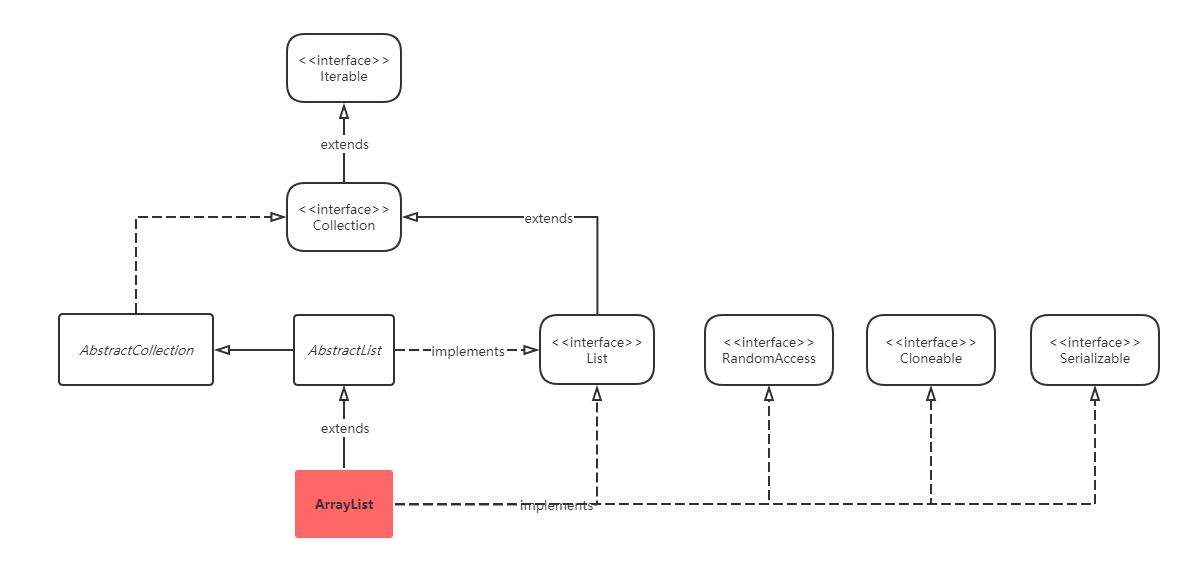
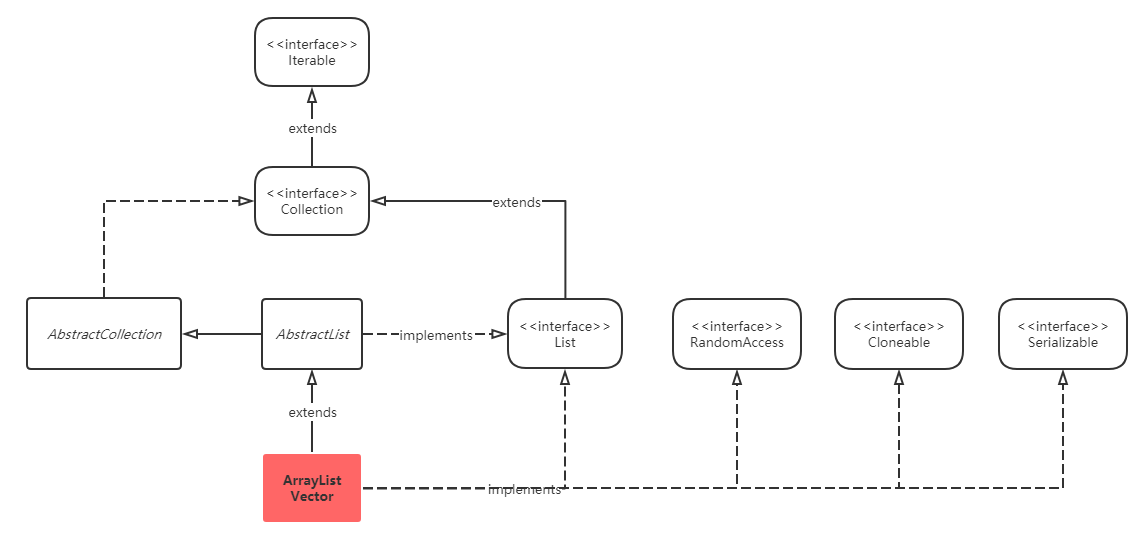
Vector 源码解析,更新element-ui版本

Changed region(s): [[0.0308, 0.0309, 0.9534, 0.9582], [0.5844, 0.5255, 1.0, 0.7418], [0.246, 0.7418, 0.3076, 0.7727]]

diff --git a/src/components/blog/java/JavaIndex.vue b/src/components/blog/java/JavaIndex.vue
@@ -54,6 +54,8 @@
     import CollectionRelationDiagram from './collections/CollectionRelationDiagram.md';
     import ArrayListSource from './collections/ArrayListSource.md';
     import LinkedListSource from './collections/LinkedListSource.md';
+    import CollectionComparison from './collections/CollectionComparison.md';
+    import VectorSource from './collections/VectorSource.md';
 
 
     export default {
@@ -63,7 +65,7 @@
             EclipseSVNPrevious20181104, SomethingNotes, CommonMethodAndEnum, RunTimeReflect,
             ThreadInterrupt, ThreadGuard, ThreadSynchronized,
             JavaAnnotation, HeapAndStack, EncapInheritPolymo, InterAbstInner, ExceptionAndSerializable,
-            CollectionRelationDiagram, ArrayListSource, LinkedListSource
+            CollectionRelationDiagram, ArrayListSource, LinkedListSource, CollectionComparison, VectorSource
         },
         data(){
             return {
@@ -86,7 +88,9 @@
                         data:[
                             {title:'Collection类图', class:'CollectionRelationDiagram', id:"collections" },
                             {title:'ArrayList 源码分析', class:'ArrayListSource' },
-                            {title:'LinkedList 源码分析', class:'LinkedListSource' }
+                            {title:'LinkedList 源码分析', class:'LinkedListSource' },
+                            {title:'Vector 源码分析', class:'VectorSource' },
+                            {title:'集合类常见比较', class:'CollectionComparison' }
                         ]
                     }, {
                         title:'Java I/O知识体系',

diff --git a/vue.config.js b/vue.config.js
@@ -13,5 +13,6 @@ module.exports = {
             .options({
                 raw: true
             })
+            .end()
     }
 };

diff --git a/src/components/blog/java/collections/VectorSource.md b/src/components/blog/java/collections/VectorSource.md
@@ -1,0 +1,303 @@
+<div class="catalog">
+
+- [概述](#t1)
+- [继承关系](#t2)
+- [构造方法](#t3)
+- [Vector注意点](#t4)
+    - [下标判断缺陷](#t41)
+    - [elements()](#t42)
+    - [线程安全初探](#t43)
+- [使用建议](#t5)
+
+
+</div>
+
+
+
+### <span id="t1">概述</span>
+
+阅读 Java 版本为 **1.8.0.25**。
+
+*Vector* 实现了 *List* 接口，是顺序容器，即元素存放的数据与放进去的顺序相同，允许放入 `null` 元素，底层通过**Object 数组实现**。
+
+*Vector* 与 *ArrayList* 基本相同，不过 *Vector* 一定程度上实现了同步。所以这篇源码介绍会比较简略，大致代码请转至 **ArrayList 源码解析** 。
+
+学习方式为，将 **Vector** 源码以及相关类拷贝至自定义包内，进行注释添加，代码请移步：<br>
+<a href="https://github.com/qianwei4712/test-demos/blob/master/collection-sources/src/main/java/vectorsources/Vector.java" target="_blank">https://github.com/qianwei4712/test-demos/blob/master/collection-sources/src/main/java/vectorsources/Vector.java</a>
+
+知识点总结如下：
+
+
+<img src="@/assets/blog/img/collections/VectorSource.png"/>
+
+
+<br>
+
+### <span id="t2">继承关系</span>
+
+
+<img src="@/assets/blog/img/collections/ArrayListSource2.png"/>
+
+
+- 实现 **Serializable** 接口开启序列化功能 ----具体介绍请转 **Java面向对象基础 - 异常、序列化**
+- 实现 **Cloneable** 接口，允许使用 **clone()** 方法克隆 --- 具体介绍请转 **Java面向对象基础 - Object通用方法、枚举** 
+- 实现 **RandomAccess** 接口，支持快速随机访问策略（官网说明，如果是实现了这个接口的 **List**，那么使用 for 循环的方式获取数据会优于用迭代器 Iterator 获取数据） --- 具体请参考文章 
+<a href="https://www.cnblogs.com/yeya/p/9950723.html" target="_blank">https://www.cnblogs.com/yeya/p/9950723.html</a>
+
+<br>
+
+### <span id="t3">构造方法</span>
+
+Vector 底层如下，经有3个字段，底层基于数组实现。
+
+```java
+    //底层基于 Object[] 实现，可以存储所有类型。
+    protected Object[] elementData;
+    //实际包含元素个数
+    protected int elementCount;
+    //扩容长度字段，若在构造中没有指定，则进行双倍扩容
+    protected int capacityIncrement;
+```
+
+
+
+和 ArrayList 不同，Vector 静态常量仅剩 MAX_ARRAY_SIZE ：
+
+```java
+    //数组最大容量，实际值为2^31-1-8，超出会爆OutOfMemoryError。
+    //数组除了存放数据外，还有一个length属性，减8为了存放数组长度
+    private static final int MAX_ARRAY_SIZE = Integer.MAX_VALUE - 8;
+```
+
+
+
+> **Vector 构造时数组默认长度为 10；而 ArrayList 若不指定长度，则默认为0。**
+
+构造方法如下 ：
+
+```java
+    //无参构造器，重载 Vector(int initialCapacity)，默认长度10
+    public Vector() {
+        this(10);
+    }
+
+    //指定长度的构造器
+    public Vector(int initialCapacity) {
+        this(initialCapacity, 0);
+    }
+
+    //指定长度和扩容大小的构造器
+    public Vector(int initialCapacity, int capacityIncrement) {
+        super();
+        if (initialCapacity < 0)
+            throw new IllegalArgumentException("Illegal Capacity: "+
+                    initialCapacity);
+        this.elementData = new Object[initialCapacity];
+        this.capacityIncrement = capacityIncrement;
+    }
+
+    //集合参数构造器，顺序初始化
+    public Vector(Collection<? extends E> c) {
+        elementData = c.toArray();
+        elementCount = elementData.length;
+        // 官方解释，c.toArray返回的可能不是Object[] (see 6260652)
+        if (elementData.getClass() != Object[].class)
+            elementData = Arrays.copyOf(elementData, elementCount, Object[].class);
+    }
+```
+
+
+
+<br>
+
+### <span id="t4">Vector注意点</span>
+
+这一部分就从简了，大部分都和 ArrayList 一样，有兴趣看下 ArrayList 篇吧。
+
+以后会把有关集合的大部分比较重新开一篇汇总。
+
+
+<br>
+
+#### <span id="t41">Vector下标判断的缺陷</span>
+
+这里首先看下 ArrayList 的 下标位置判断方法：
+
+```java
+    //在指定位置添加元素
+    public void add(int index, E element) {
+        // 判断指定位置是否超出列表位置范围
+        rangeCheckForAdd(index);
+        ensureCapacityInternal(size + 1);
+        //进行数组复制，从指定位置往后移一位
+        System.arraycopy(elementData, index, elementData, index + 1,
+                size - index);
+        elementData[index] = element;
+        size++;
+    }   
+
+    // 判断指定位置是否超出列表位置范围
+    private void rangeCheckForAdd(int index) {
+        if (index > size || index < 0)
+            throw new IndexOutOfBoundsException(outOfBoundsMsg(index));
+    }
+```
+
+然后看下 Vector 的 insertElementAt 方法：
+
+```java
+   public synchronized void insertElementAt(E obj, int index) {
+        //操作次数 +1
+        modCount++;
+        // 判断指定位置是否超出列表位置范围，因为数组不能间断
+        //为什么这里不判断小于0 ??????
+        if (index > elementCount) {
+            throw new ArrayIndexOutOfBoundsException(index
+                    + " > " + elementCount);
+        }
+        //判断扩容方法
+        ensureCapacityHelper(elementCount + 1);
+        //进行数组复制，从指定位置往后移一位
+        System.arraycopy(elementData, index, elementData, index + 1, elementCount - index);
+        elementData[index] = obj;
+        elementCount++;
+    }
+```
+
+再看下 Vector 的 addAll 方法，也是根据下标位置进行添加
+
+```java
+    // 指定位置开始批量添加
+    public synchronized boolean addAll(int index, Collection<? extends E> c) {
+        modCount++;
+        //这里又加了负数判断？？？？
+        if (index < 0 || index > elementCount)
+            throw new ArrayIndexOutOfBoundsException(index);
+
+        Object[] a = c.toArray();
+        int numNew = a.length;
+        ensureCapacityHelper(elementCount + numNew);
+
+        int numMoved = elementCount - index;
+        if (numMoved > 0)
+            System.arraycopy(elementData, index, elementData, index + numNew,
+                    numMoved);
+
+        System.arraycopy(a, 0, elementData, index, numNew);
+        elementCount += numNew;
+        return numNew != 0;
+    }
+```
+
+
+
+看看三个方法的索引判断
+
+> 同样是判断索引，为什么 ArrayList 判断了小于 0 ，而 Vector 没有？
+
+没有实践就没有发言权，一定是我错了，JDK是不可能错的！所以我做了个测试
+
+```java
+    public static void main(String[] args) {
+        Vector<Integer> vector = new Vector<>();
+        vector.add(1);
+        //测试负数位置
+        vector.insertElementAt(10,-1);
+        System.out.println(vector);
+    }
+```
+
+妈耶，居然，报错了，而且报错行是在 **System.arraycopy** ，已经通过了索引判断，甚至扩容数组了。。。
+
+```java
+Exception in thread "main" java.lang.ArrayIndexOutOfBoundsException
+    at java.lang.System.arraycopy(
+    Native Method)
+    at vectorsources.Vector.insertElementAt(Vector.java:91)
+    at vectorsources.VectorTest.main(VectorTest.java:10)
+```
+
+而且，这个只判断正整数不只出现在这一处，还出现在  **remove、get**  等，好几处主要方法。。。
+
+然后，我百度了下，翻了3页才确定，貌似这里不判断负数，确实没有什么深意。。。
+
+虽然这只是个牛角尖，但是，我得出一个重大的结论，JDK 也不是完美的。。。。
+
+
+
+
+
+<br>
+
+#### <span id="t42">elements()</span>
+
+这个方法代码也比较简单，只是因为 ArrayList 貌似没有。。。就着重看了下：
+
+```java
+    //枚举迭代器
+    public Enumeration<E> elements() {
+        return new Enumeration<E>() {
+            int count = 0;
+            //循环次数为数组元素个数
+            public boolean hasMoreElements() {
+                return count < elementCount;
+            }
+            //加锁循环
+            public E nextElement() {
+                synchronized (Vector.this) {
+                    if (count < elementCount) {
+                        return elementData(count++);
+                    }
+                }
+                throw new NoSuchElementException("Vector Enumeration");
+            }
+        };
+    }
+```
+
+
+
+
+
+<br>
+
+#### <span id="t43">线程安全初探</span>
+
+虽然 Vector 在大多数的操作方法上加了锁，但是不是绝对的线程安全的。
+
+在方法上加了 **synchronized** 效率极低，保证所有被修饰的方法对外只是保证单线程持有。
+
+
+
+**以下部分节选自大佬的文章，这里就举下例子：<a href="https://blog.csdn.net/Fly_as_tadpole/article/details/86480371" target="_blank">https://blog.csdn.net/Fly_as_tadpole/article/details/86480371</a>**
+
+> 虽然源代码注释里面说这个是线程安全的，因为确实很多方法都加上了同步关键字synchronized，但是对于复合操作而言，只是同步方法但并没有解决线程安全的问题。因为在两个原子操作之间存在间隙，在多线程环境中，完全有可能被其他线程获得 vector的 lock 并改变其状态。要真正达成线程安全，还需要以vector对象为锁，来进行操作。所以，如果是这样的话，那么用vector和ArrayList就没有区别了，所以，不推荐使用vector。
+
+> 这是经典的 put-if-absent 情况，尽管 contains, add 方法都正确地同步了，但作为 vector 之外的使用环境，仍然存在  race condition: 因为虽然条件判断 if (!vector.contains(element))与方法调用 vector.add(element);  都是原子性的操作 (atomic)，但在 if 条件判断为真后，那个用来访问vector.contains 方法的锁已经释放，在即将的 vector.add 方法调用 之间有间隙，在多线程环境中，完全有可能被其他线程获得 vector的 lock 并改变其状态, 此时当前线程的vector.add(element);  正在等待（只不过我们不知道而已）。只有当其他线程释放了 vector 的 lock 后，vector.add(element); 继续，但此时它已经基于一个错误的假设了。
+
+> 单个的方法 synchronized 了并不代表组合（compound）的方法调用具有原子性，使 compound actions  成为线程安全的可能解决办法之一还是离不开intrinsic lock (这个锁应该是 vector 的，但由 client 维护)：
+
+```java
+   // Vector v = ...
+   public  boolean putIfAbsent(E x) {
+	  synchronized(v) { 
+          boolean absent = !contains(x); 
+          if (absent) { 
+             add(x);
+          } 
+       }
+       return absent; 
+   }
+```
+
+
+
+
+
+<br>
+
+### <span id="t5">使用建议</span>
+
+- **在线程安全情况下要特别注意，Vector 虽然在方法上加锁，但是并非绝对线程安全。**
+- **很多博客最后的结论都是，不建议使用 Vector 。**
+

diff --git a/src/components/blog/java/collections/CollectionComparison.md b/src/components/blog/java/collections/CollectionComparison.md
@@ -1,0 +1,22 @@
+### ArrayList、LinkedList、Vector 比较
+
+**相同点：**
+
+1. 都实现了 **List<E>** 接口，所以都是顺序容器
+2. 都实现了 **Cloneable、Serializable** 接口，可进行序列化和拷贝
+
+
+
+**不同点：**
+
+|                            功能点                            |                          ArrayList                           |                          LinkedList                          |                            Vector                            |
+| :----------------------------------------------------------: | :----------------------------------------------------------: | :----------------------------------------------------------: | :----------------------------------------------------------: |
+|                         **实现原理**                         |                    内部维护 Object[] 数组                    |             使用双向链表，内部维护头尾节点的引用             |                    内部维护Object[] 数组                     |
+| **RandomAccess 接口**<br>（快速访问策略，for 循环的方式获取数据会优于用迭代器 Iterator 获取数据） |                            实现了                            |                             没有                             |                            实现了                            |
+| **Deque<E>接口**<br>（继承自 **Queue<E>** 接口，实现双向队列方法） |                             没有                             |                   实现了，因此具有队列特性                   |                             没有                             |
+|                       **是否线程安全**                       |                不安全，引入了 fast-fail 机制                 |                不安全，引入了 fast-fail 机制                 | 1. 在一定程度上实现了线程安全。在方法上加了 synchronized 关键字，因为 synchronized 是JVM级的，所以不可修改、效率极低。<br>2. 对于复合操作而言，只是同步方法但并没有解决线程安全的问题。因为在两个原子操作之间存在间隙，在多线程环境中，完全有可能被其他线程获得 vector的 lock 并改变其状态。要真正达成线程安全，还需要以vector对象为锁，来进行操作。所以用vector和ArrayList就没有区别了 |
+|                         **操作特点**                         | 1. 查询快，因为数组的内存空间地址是连续的<br>2. 增删慢，因为进行增删操作，经常会涉及到数组的移动复制、扩容复制等；数组长度是确定不能更改的，需要将原数组赋值到新数组。但是，如果是在结尾处的增删，不需要考虑长度情况下，还是很快的。 | 1. 增删快，因为链表的增删操作只需更改链接的2个链表引用，不需要像数组频繁创建复制<br>2. 查询慢，因为链表的存储地址不连续，查询需要通过引用循环访问 | 单线程情况下，与 ArrayList 相同。但是多线程环境下，效率极低，并且不是绝对安全。 |
+|                         **内部特点**                         | 1. **无参构造器时默认列表长度0，第一次添加元素，增长为10**<br>2. **数组扩容时，首先判断扩容一半是否足够，若不够则直接扩容至结果长度（原长度+添加个数）** <br>3. 数组最大容量，实际值为2^31-1-8，超出会爆OutOfMemoryError。数组除了存放数据外，还有一个length属性，减8为了存放数组长度 | 1. 移除节点时，将该节点前后引用、元素值引用置空，帮助 GC 回收 | 1. **无参构造器时，默认的数组长度为 10，不是0** <br>2. Vector扩容字段不是静态常量，而是在构造方法中指定的。**若没有指定，在扩容时按照双倍扩容** |
+
+
+
